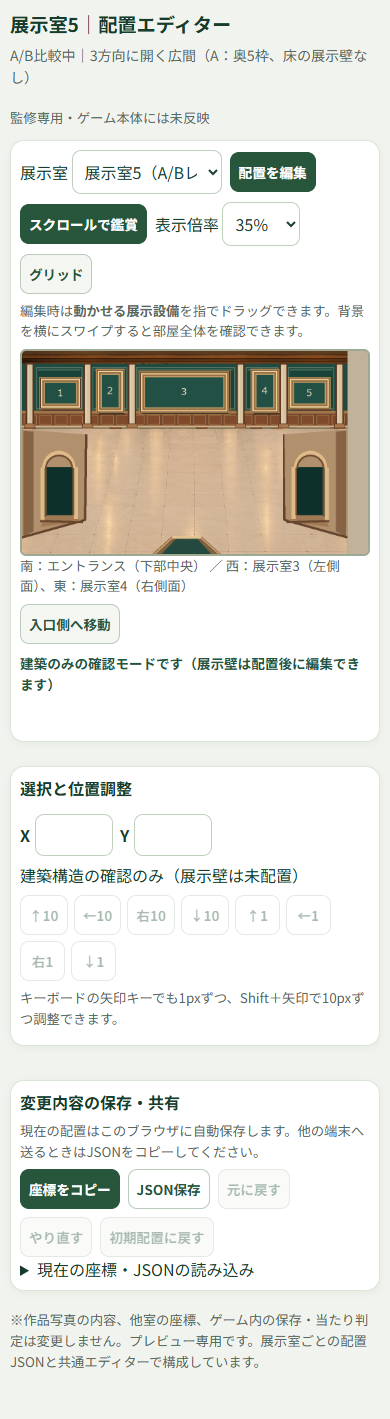
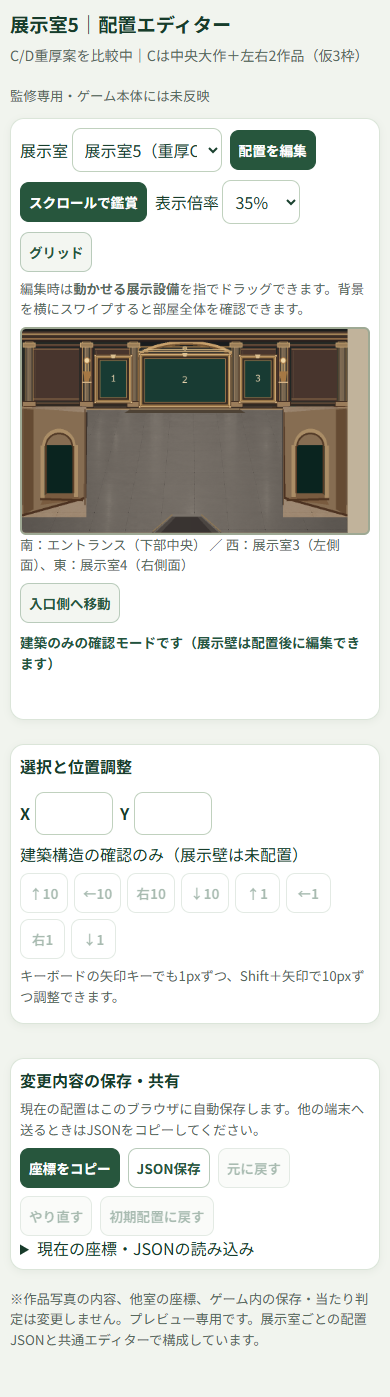
feat(a18): compare dark heritage gallery5 three and five frames

diff --git a/qa/gallery5_heavy_concepts_CD.py b/qa/gallery5_heavy_concepts_CD.py
@@ -1,0 +1,135 @@
+"""Gallery5 C/D: solemn old-master hall, design studies only, no saved fixture changes."""
+from pathlib import Path
+from PIL import Image,ImageDraw,ImageFilter,ImageEnhance,ImageFont
+import math,hashlib
+root=Path(__file__).resolve().parents[1]
+out=root/'rooms/gallery5'
+assert out.is_dir()
+orig=out/'gallery5_architecture_only.png'
+orig_hash=hashlib.sha256(orig.read_bytes()).hexdigest()
+W,H=930,582
+base=Image.open(orig).convert('RGB')
+assert base.size==(W,H)
+font=ImageFont.truetype('C:/Windows/Fonts/meiryo.ttc',26)
+subfont=ImageFont.truetype('C:/Windows/Fonts/meiryo.ttc',17)
+def rect(d,xy,fill,outline=None,width=1):
+ d.rectangle(xy,fill=fill,outline=outline,width=width)
+def lighten(a,b,p):
+ return tuple(int(a[k]*(1-p)+b[k]*p) for k in range(3))
+def structure():
+ im=base.copy()
+ # Brown-stone/charcoal darkening above, and preserved legible floor pattern.
+ d=ImageDraw.Draw(im)
+ for y in range(36,222):
+  t=(y-36)/185
+  dark=lighten((35,40,37),(50,42,34),t)
+  d.line((0,y,929,y),fill=dark)
+ # Wide wall panels of deep wine-brown walnut, a deliberately warmer contrast.
+ for x0,x1 in [(21,174),(196,322),(339,597),(614,736),(758,910)]:
+  d.rectangle((x0,44,x1,212),fill='#3c2b27',outline='#7e5b40',width=3)
+  d.rectangle((x0+8,51,x1-8,209),fill='#48352d',outline='#1e2524',width=3)
+  d.line((x0+12,57,x1-12,57),fill='#a07c52',width=2)
+  d.line((x0+12,199,x1-12,199),fill='#a07c52',width=2)
+  d.line((x0+16,62,x0+16,195),fill='#594536',width=2)
+ # Raised deep center shrine: architectural alcove, not an extra frame.
+ d.polygon([(325,35),(610,35),(624,222),(306,222)],fill='#191c1e')
+ d.rounded_rectangle((330,49,608,221),radius=12,fill='#272b2a',outline='#9d7747',width=4)
+ d.rounded_rectangle((340,56,597,216),radius=9,fill='#343530',outline='#4d4437',width=6)
+ # Large arched canopy
+ d.arc((313,34,625,170),180,360,fill='#c8a16c',width=8)
+ d.arc((320,41,618,174),180,360,fill='#765634',width=5)
+ # Layered roof cornice. Architectural not illumination.
+ for y0,y1,col in [(0,6,'#1b1d1c'),(7,12,'#4c392d'),(13,16,'#bd9863'),(17,25,'#3c2e25'),(26,30,'#906c47'),(31,36,'#281f1d')]:
+  rect(d,(0,y0,929,y1),col)
+ # Pilasters support roof on each side of central recess.
+ for x in (20,184,319,611,747,914):
+  d.rectangle((x-12,36,x+12,221),fill='#1e211f',outline='#b28a56',width=2)
+  d.rectangle((x-8,42,x+8,214),fill='#5f5142')
+  d.rectangle((x-4,43,x+5,209),fill='#796750')
+  d.line((x-4,45,x-4,207),fill='#c8a67b',width=1)
+  d.rectangle((x-18,39,x+18,52),fill='#9b7e58',outline='#c5a373',width=2)
+  d.rectangle((x-20,206,x+20,224),fill='#9b7d5b',outline='#3b291f',width=2)
+ # Baseboard dark timber, stepped.
+ rect(d,(0,223,929,228),'#241c1a')
+ d.line((0,228,929,228),fill='#a58254',width=3)
+ # Re-paste full passage arches from untouched three-door museum geometry.
+ im.paste(ImageEnhance.Brightness(base.crop((0,220,184,538))).enhance(.76),(0,220))
+ im.paste(ImageEnhance.Brightness(base.crop((746,220,930,538))).enhance(.76),(746,220))
+ # Dark side stone buttresses on top, without blocking their openings.
+ d=ImageDraw.Draw(im)
+ for x in (0,179,745,926):
+  d.line((x,229,x,502),fill='#69523d',width=4)
+ # Preserve front south entrance and foreground tile work.
+ im.paste(base.crop((367,525,572,582)),(367,525))
+ # Polished dark-stone floor; keep every original perspective tile seam.
+ pixels=im.load()
+ for y in range(231,H):
+  for x in range(W):
+   if y<538 and (x<184 or x>=746):continue
+   r,g,b=pixels[x,y]
+   edge=(abs(x-465)/465)**1.5
+   light=1.0-(0.22*edge)
+   # Stone grayscale retains tile grid and restrained warm reflections.
+   value=(.28*r+.57*g+.15*b)
+   pixels[x,y]=(int((.48*value+28)*light),int((.47*value+23)*light),int((.43*value+23)*light))
+ # Keep the threshold a readable, slightly lighter connection to the entrance.
+ d=ImageDraw.Draw(im)
+ d.line((373,578,429,530),fill='#8b7657',width=3)
+ d.line((567,578,512,530),fill='#8b7657',width=3)
+ return im
+def gold_frame(im,n,box,major=False):
+ x,y,w,h=box;d=ImageDraw.Draw(im)
+ # Drop shadow and three timber/gilt molding bands.
+ d.rounded_rectangle((x+4,y+7,x+w+7,y+h+9),radius=3,fill='#101615')
+ rect(d,(x-9,y-9,x+w+9,y+h+9),'#201d1c','#6c4c30',2)
+ rect(d,(x-6,y-6,x+w+6,y+h+6),'#86633c','#d8b37c',3)
+ rect(d,(x-1,y-1,x+w+1,y+h+1),'#392b23','#c49b5a',2)
+ rect(d,(x+7,y+7,x+w-7,y+h-7),'#183b33','#ad8451',2)
+ # Decorative corner rosettes and a centered keystone
+ for px in (x-6,x+w+6):
+  for py in (y-6,y+h+6):
+   d.ellipse((px-3,py-3,px+3,py+3),fill='#e2c391',outline='#654526',width=1)
+ d.polygon([(x+w/2-7,y-9),(x+w/2+7,y-9),(x+w/2+4,y+1),(x+w/2-4,y+1)],fill='#ddc090')
+ d.text((x+w/2,y+h/2),str(n),font=font,fill='#f2dbb5',anchor='mm')
+ if major:
+  # Gilded crown and small sculpted finial without adding another picture.
+  d.line((x-12,y-14,x+w+12,y-14),fill='#b99a6b',width=4)
+  d.line((x+6,y-19,x+w-6,y-19),fill='#d4b886',width=2)
+  d.ellipse((x+w/2-6,y-28,x+w/2+6,y-17),fill='#b49a6d',outline='#efe1ba')
+def lamps(im):
+ d=ImageDraw.Draw(im)
+ for x in (185,746):
+  # Sconces are part of the wall, avoid covering exhibit artwork.
+  d.line((x-4,95,x-4,147),fill='#c8a66b',width=3)
+  d.line((x+4,95,x+4,147),fill='#c8a66b',width=3)
+  d.ellipse((x-9,80,x+9,99),fill='#f0d7a5',outline='#9b7041',width=3)
+  d.polygon([(x-11,121),(x+11,121),(x+6,149),(x-6,149)],fill='#a67844')
+  d.line((x-13,152,x+13,152),fill='#dab88a',width=3)
+def build(which):
+ im=structure()
+ lamps(im)
+ if which=='C':
+  frames=[(1,(215,82,91,121)),(2,(342,77,246,139)),(3,(628,82,91,121))]
+ else:
+  frames=[(1,(210,76,98,53)),(2,(210,150,98,53)),(3,(342,77,246,139)),
+          (4,(627,76,98,53)),(5,(627,150,98,53))]
+ for n,b in frames:gold_frame(im,n,b,major=n==(2 if which=='C' else 3))
+ # Low geometric molding at center, leaves all pathways visually empty.
+ d=ImageDraw.Draw(im)
+ d.polygon([(309,229),(621,229),(637,239),(293,239)],fill='#4d4235')
+ d.line((310,228,619,228),fill='#c3a276',width=3)
+ return im
+arch=structure()
+arch.save(out/'gallery5_heavy_architecture_C.png')
+for name in ('C','D'):
+ build(name).save(out/f'gallery5_heavy_{name}.png')
+comparison=Image.new('RGB',(1904,639),'#eeeae3')
+d=ImageDraw.Draw(comparison)
+head=ImageFont.truetype('C:/Windows/Fonts/meiryo.ttc',20)
+d.text((12,12),'C案｜3作品・中央を主役にした重厚な特別室',fill='#384638',font=head)
+d.text((963,12),'D案｜5作品・中央主役＋左右2段',fill='#384638',font=head)
+comparison.paste(Image.open(out/'gallery5_heavy_C.png'),(12,48))
+comparison.paste(Image.open(out/'gallery5_heavy_D.png'),(962,48))
+comparison.save(out/'gallery5_heavy_C_D_comparison.png')
+assert hashlib.sha256(orig.read_bytes()).hexdigest()==orig_hash
+print('PASS gallery5 heavy C(3),D(5), unapproved; architecture base unchanged')

diff --git a/qa/check_gallery5_live.py b/qa/check_gallery5_live.py
@@ -9,10 +9,12 @@ root=Path(__file__).resolve().parents[1]
 room=json.loads((root/'rooms/gallery5/room.json').read_text(encoding='utf-8'))
 assert room['id']=='gallery5'
 assert room['frameCount']==5
+assert room['previewArtworkCount']==3 and room['background'].endswith('gallery5_heavy_C.png')
 assert room['entrance'].startswith('南') and room['exit'].startswith('西')
 assert '東' in room['exit'] and len(room['objects'])==0
 assert room['status'].startswith('unapproved')
-for name in ('gallery5_concept_A.png','gallery5_concept_B.png','gallery5_architecture_only.png'):
+for name in ('gallery5_concept_A.png','gallery5_concept_B.png','gallery5_architecture_only.png',
+             'gallery5_heavy_C.png','gallery5_heavy_D.png','gallery5_heavy_architecture_C.png'):
  assert Image.open(root/'rooms/gallery5'/name).size==(930,582)
 class Quiet(SimpleHTTPRequestHandler):
  def log_message(self,*args): pass
@@ -25,16 +27,17 @@ try:
    ctx=browser.new_context(viewport={'width':width,'height':850})
    page=ctx.new_page();errors=[]
    page.on('pageerror',lambda e:errors.append(str(e)))
-   r=page.goto(f'http://127.0.0.1:{server.server_port}/?room=gallery5&rev=A5-qa',wait_until='networkidle')
+   r=page.goto(f'http://127.0.0.1:{server.server_port}/?room=gallery5&rev=heavy-CD-qa',wait_until='networkidle')
    assert r.status==200
    page.wait_for_function('window.__A18_LAYOUT_EDITOR__ && window.__A18_LAYOUT_EDITOR__.getState().roomId==="gallery5"')
    st=page.evaluate('window.__A18_LAYOUT_EDITOR__.getState()')
    assert st['objects']=={},st
    assert page.locator('#zoom').input_value()==('.35' if width==390 else '.8')
    assert all(page.locator('#stage img').evaluate_all('(es)=>es.map(e=>e.complete && e.naturalWidth>0)'))
+   assert any('gallery5_heavy_C.png' in s for s in page.locator('#stage img').evaluate_all('(es)=>es.map(e=>e.src)'))
    assert not errors,errors
    page.screenshot(path=str(root/'rooms/gallery5'/f'editor_gallery5_{width}.png'),full_page=True)
-   print('PASS gallery5 A draft',width,'zero movable fixtures; five visual placeholders')
+   print('PASS gallery5 heavy C unapproved',width,'3 art visuals; original game 5 fixtures unchanged')
    ctx.close()
   browser.close()
 finally:

diff --git a/rooms/gallery5/HEAVY_CD_REVIEW_20261029.md b/rooms/gallery5/HEAVY_CD_REVIEW_20261029.md
@@ -1,0 +1,37 @@
+# A18 展示室5 重厚な特別展示室｜C・D比較（未承認）
+
+## 方針と比較した事実
+
+ユーザーは過去A/Bの5作品の大広間案に対して「すごく重厚な感じにするとかどう？5枚にこだわる必要もないかなって。」と提案した。**具体的な新レイアウトや枠数を承認したわけではない。** 今回は重厚感を優先した監修用コンセプトを新たに作成し、旧A/Bは保存する。
+
+- 画面930×582、館内の既存幾何と床グリッドは維持。部屋の接続は南（エントランス）・西（展示室3）・東（展示室4）の3方向。北は壁。
+- 深い木目色・暗い石調タイル・金の細い縁取り・重い柱、中央の高い額縁で特別展示室らしさを表現。
+- 怖い部屋や別作品の世界観ではなく、**通常館内に連続した由緒ある展示室**を狙う。数字は見た目上の枠の区別に限る。
+- 彫像・展示台・カウンターなど、ユーザーが未承認の装飾は追加しない。
+
+## コンセプト
+
+| 案 | 描画上の作品数 | 配置 | 評価 |
+| --- | ---: | --- | --- |
+| C | **3** | 奥の中央に大きな1枚、左右に縦型2枚。床の展示壁なし | 主役の存在感、広々した空気、静けさを優先 |
+| D | **5** | 中央大作1枚＋左右の小型2段×2。床の展示壁なし | 既存5枠に近く、中央を主役にしつつ作品数を確保 |
+
+* C: `gallery5_heavy_C.png`
+* D: `gallery5_heavy_D.png`
+* 2案比較: `gallery5_heavy_C_D_comparison.png`
+* 建築のみ: `gallery5_heavy_architecture_C.png`
+* 再生成用: `qa/gallery5_heavy_concepts_CD.py`
+
+## データ契約との境界（重要）
+
+現行の固定設備は **エントランス3＋展示室5室×5＝28枠**。
+roomId=5（画面表示名「展示室5」）の正式設備IDは `frame-5-0`～`frame-5-4`。ゲームではこの5枠の充足がLv.6完了イベントに接続され、5枠の存在と関連保存・画像・展示達成履歴が前提。
+
+- **C案の3枠は現時点では「画面に描く絵」の3枚のみ。ゲームの正式5枠を削除・再採番しない。**
+- もし「展示可能枚数も3」に正式決定された場合は、28枠→26枠、部屋5枠→3枠にした進行・達成判定・保存スキーマ・既存IDの扱いを**別途設計／承認／QA**する必要がある。特に旧IDの削除と変換を安易に行わない。
+- 逆に5枠を維持しつつ3枚だけ見せる代替案も技術的には検討可能だが、ユーザー作品の展示先が見えなくなる設計は採用しない。今は視覚案の監修に限定する。
+- D案でも展示枠の実ゲーム連動は未実装。
+- スタッフ、歩行、当たり判定、鑑賞距離、重なり順序、ゲーム本体の保存は全て未検証。
+
+## Git/成果保全
+既存の `a18-gallery-layout-editor` `work/a18-gallery-layout-preview-20261028` で監修試作。今回の両画像は**未採用の候補**として残し、正式A/Bは上書きしない。旧プレビュー構成は `room_AB_reference.json`。プレビュー用 `room.json` だけを一時的にC案背景へ切替。ユーザー指示なくissue/mainやゲーム本体への統合をしない。
